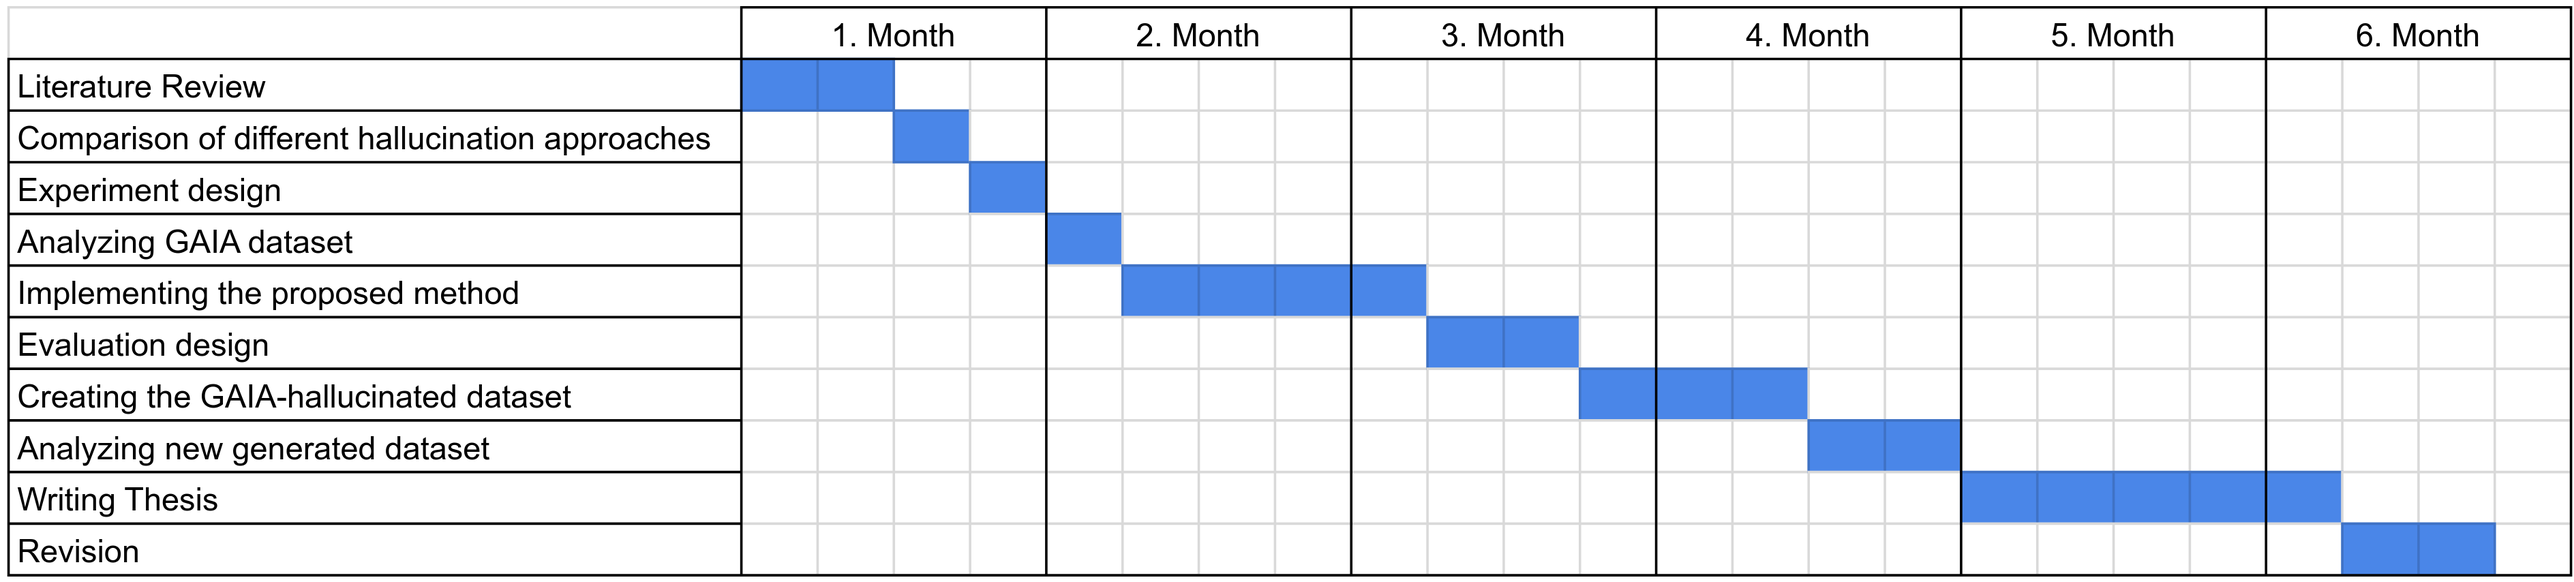
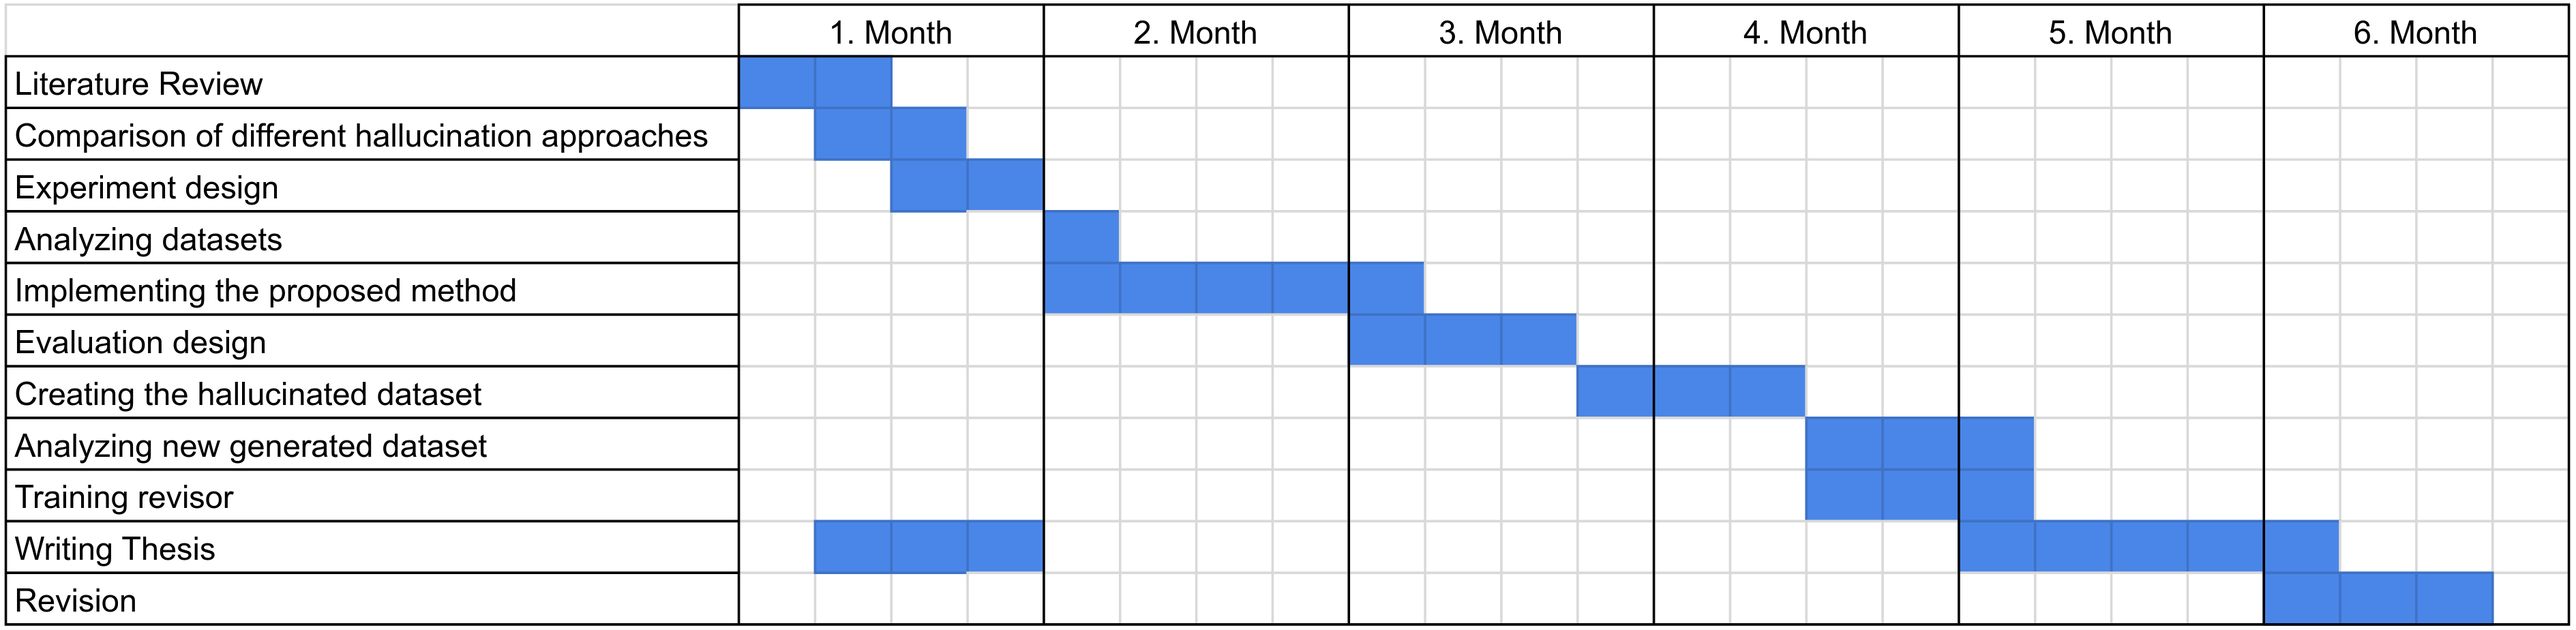
Apply some advisor feedback

Changed region(s): [[0.0, 0.0, 1.0, 1.0]]

diff --git a/proposal/main.tex b/proposal/main.tex
@@ -10,6 +10,9 @@
 \usepackage{float}
 \usepackage{graphicx}
 
+% \usepackage{etoolbox}
+% \AtBeginEnvironment{quote}{\par\singlespacing\small}
+
 \addbibresource{references.bib}
 
 \makeatletter
@@ -23,32 +26,32 @@
 
 \begin{document}
 \title{TU Berlin / Faculty IV\\
-  Remote Sensing Image Analysis Group\\
-  \vspace{1em}
-\huge Proposal for a Master Thesis}
+	Remote Sensing Image Analysis Group\\
+	\vspace{1em}
+	\huge Proposal for a Master Thesis}
 
 \maketitle
 
 \begin{table}[h!]
-  \begin{tabular}{ >{\columncolor[HTML]{FFFFFF}}r >{\columncolor[HTML]{FFFFFF}}l
-    }
-    {\color[HTML]{000000} Type of thesis/ Line of study:} &
-    {\color[HTML]{000000} Master Thesis}                           \\
-    {\color[HTML]{000000} Title of the thesis:}           &
-    {\color[HTML]{000000} On Detecting Hallucinations in Vision-Language Model } \\
-    {\color[HTML]{000000} }                     &
-    {\color[HTML]{000000} Generated Captions for Remote Sensing Imagery} \\
-    {\color[HTML]{000000} Candidate:}                     &
-    {\color[HTML]{000000} Fabian Borges, Filipe Alexandre}         \\
-    {\color[HTML]{000000} Matriculation number:}          &
-    {\color[HTML]{000000} 414221}                                  \\
-    {\color[HTML]{000000} Advisor(s):}                    &
-    {\color[HTML]{000000} Golchin, Pegah (Dr.) \& Beese, Marvin (MSc)}                    \\
-    {\color[HTML]{000000} Supervisor(s):}                 &
-    {\color[HTML]{000000} Demir, Begüm (Prof. Dr.)}                \\
-    {\color[HTML]{000000} Planned period:}                &
-    {\color[HTML]{000000} Jan. 2026 until June 2026}
-  \end{tabular}
+	\begin{tabular}{ >{\columncolor[HTML]{FFFFFF}}r >{\columncolor[HTML]{FFFFFF}}l
+		}
+		{\color[HTML]{000000} Type of thesis/ Line of study:} &
+		{\color[HTML]{000000} Master Thesis}                                         \\
+		{\color[HTML]{000000} Title of the thesis:}           &
+		{\color[HTML]{000000} On Detecting Hallucinations in Vision-Language Model } \\
+		{\color[HTML]{000000} }                               &
+		{\color[HTML]{000000} Generated Captions for Remote Sensing Imagery}         \\
+		{\color[HTML]{000000} Candidate:}                     &
+		{\color[HTML]{000000} Fabian Borges, Filipe Alexandre}                       \\
+		{\color[HTML]{000000} Matriculation number:}          &
+		{\color[HTML]{000000} 414221}                                                \\
+		{\color[HTML]{000000} Advisor(s):}                    &
+		{\color[HTML]{000000} Golchin, Pegah (Dr.) \& Beese, Marvin (MSc)}           \\
+		{\color[HTML]{000000} Supervisor(s):}                 &
+		{\color[HTML]{000000} Demir, Begüm (Prof. Dr.)}                              \\
+		{\color[HTML]{000000} Planned period:}                &
+		{\color[HTML]{000000} Jan. 2026 until June 2026}
+	\end{tabular}
 \end{table}
 
 \section{Introduction / Scientific Background / Related Work}
@@ -83,49 +86,75 @@ This thesis will explore different hallucination detection and revision methods 
 
 % Intro
 
-This thesis will consist of two phases. The first phase will be an exploration of two training-free hallucination detection methods: Semantic Entropy \cite{farquharDetectingHallucinationsLarge2024} and Visual Contrastive Decoding \cite{lengMitigatingObjectHallucinations2024}. In this phase, the performance of these methods will be evaluated on different Remote Sensing datasets with VLM-generated captions. As both methods rely on VLMs, different models will be tested to see how model choice affects detection performance. Detected hallucinations will be collected and revised in order to create a dataset of real hallucinations in Remote Sensing image captions. In the second phase, the created dataset will be used to train a hallucination reviser, following the method proposed by Zhou et al.\ \cite{zhouAnalyzingMitigatingObject2024}.
+% TODO should I write again why we are correcting VLM generated captions??
+
+This thesis will consist of two phases. The first phase will be an exploration of two training-free hallucination detection methods: Semantic Entropy \cite{farquharDetectingHallucinationsLarge2024} and Visual Contrastive Decoding \cite{lengMitigatingObjectHallucinations2024}. In this phase, the performance of these methods will be evaluated on Remote Sensing datasets with VLM-generated captions. As both methods rely on VLMs, different models will be tested to see how model choice affects detection performance. Detected hallucinations will be collected and revised in order to create a dataset of detected VLM hallucinations in Remote Sensing image captions. In the second phase, the created dataset will be used to train a hallucination reviser similarly to LURE \cite{zhouAnalyzingMitigatingObject2024}.
+
+% TODO add figure illustrating both phases
 
 \subsection{Hallucination Detection Methods}
-
-\subsubsection{Training-Free Methods}
-
-Semantic Entropy and Visual Contrastive Decoding are training-free methods to detect hallucinations. Both estimate uncertainty for singular words or ideas that might be present in a generated caption. Descriptions of complex Remote Sensing images often contain multiple facts. To analyze these, an LLM will decompose each caption into individual facts and generate corresponding questions, as was done in \cite{farquharDetectingHallucinationsLarge2024}. These questions will serve as the textual input for both detection methods.
-
-\paragraph{Semantic Entropy}
-Semantic entropy as introduced in \cite{farquharDetectingHallucinationsLarge2024}, is used as an entropy-based uncertainty estimator for detecting hallucinations in language models. One of the motivations for this method is that a single idea can be expressed in many ways. To address this, entropy is calculated over meaning rather than specific tokens. This method was chosen as it requires no domain or task specific data and was shown to generalize well across different tasks, thus requires no assumptions about Remote Sensing hallucinations \cite{farquharDetectingHallucinationsLarge2024}. The general flow of this method is as follows: For each question generated from one factual claim, prompt the VLM to generate multiple answers and compute the semantic entropy of the answers. The average semantic entropy across all questions is used as the hallucination score for the original factual claim. This efficacy on Remote Sensing images remains unexplored.
-
-\paragraph{Visual Contrastive Decoding}
-Similarly to the semantic entropy method, Visual Contrastive Decoding (VCD) is a training-free method and requires little assumptions about Remote Sensing hallucinations \cite{lengMitigatingObjectHallucinations2024}. By comparing the output distributions of original and distorted images, VCD reveals internal biases present in VLMs. VCD has proven versatile, mitigating hallucinations across different VLM families. This versatility may be important for Remote Sensing, which uses different VLMs for varied image types (such as multi-spectral) \cite{marimoVisibleMultispectralVisionLanguage2026}. VCD's efficacy in this domain remains untested. The original VCD method utilizes Gaussian noise as the distortion technique. However, different types of distortions will be explored to determine which is most effective for Remote Sensing images.
-
-\subsubsection{Trained Method}
-A hallucination reviser will be trained similarly to the method proposed by Zhou et al.\ \cite{zhouAnalyzingMitigatingObject2024}. In the original method, a training dataset is created by artificially generating hallucinatory captions. Instead of this, the dataset created in the first phase of the thesis, containing detected hallucinations, will be used. An LLM will then be fine-tuned on this dataset to correct hallucinations in captions. This will serve to evaluate the utility of the newly created dataset and allow for a comparison between the training-free and trained hallucination detection methods.
-
-\subsubsection{LLM as a judge}
-To increase confidence of any hallucination predictions, an LLM-as-a-judge or LLMs-as-a-jury strategy will be employed. Different options will be explored. For example, to confirm a likely hallucination, a VLM is asked a binary question for each suspected object (e.g., ”Is object [X] present in the image?”), similar to the POPE evaluation method \cite{liEvaluatingObjectHallucination2023}. This method could be further explored by utilizing multiple VLMs and utilizing a voting strategy. Using multiple VLMs would increase complexity, it will be explored if this significantly improves hallucination detection.
-
-\subsection{VLMs}
-%TODO add citations
-Both training-free methods rely on VLMs to generate answers to questions derived from factual claims in captions. While both methods show comparable performance across different model families \cite{farquharDetectingHallucinationsLarge2024}, \cite{lengMitigatingObjectHallucinations2024}, no tests were performed in the Remote Sensing domain. Different LVLMs will be tested to see how model choice affects hallucination detection performance. VCD relies on logit distributions, so only LVLMs that provide access to these are viable options. In order to explore different VLM architectures LLaVA-1.5 \cite{liuImprovedBaselinesVisual2024} and Qwen3-VL \cite{baiQwen3VLTechnicalReport2025} will be tested. LLaVA-1.5 employs Vicuna-7B as a language decoder and Qwen3-VL is built on top of Qwen3 LM. GeoChat \cite{kuckrejaGeoChatGroundedLarge2023}, a fine-tuned version of LLaVA-1.5 on Remote Sensing data, will also be evaluated to see if domain-specific fine-tuning improves detection performance.
 
 \subsection{Datasets}
 The main task throughout the thesis will be to detect and revise hallucinations in existing  VLM-generated Remote Sensing image captions. Therefore, all datasets used must contain VLM-generated captions. The first dataset to be used will be GAIA \cite{zavrasGAIAGlobalMultimodal2025}, which contains GPT-4o generated captions for a diverse set of Remote Sensing images. The images provided by GAIA come from different sources, span a wide variety of scenes and include multi-modal data (such as multispectral imagery). This variety will offer a solid foundation for exploring hallucination detection methods. Another dataset that will be explored is RSTeller, which exclusively contains aircraft imagery captured over the United States of America sourced from the National Agriculture Imagery Program. All images in RSTeller contain multiple captions generated with different Mixtral VLMs. RSTeller contains both longer descriptive captions and shorter revised versions, which could be useful for evaluating detection methods on captions with different lengths. This will also provide captions generated form a different VLM architecture than GAIA, allowing for a broader evaluation of detection methods. Other Remote Sensing datasets with rich VLM-generated captions also exists, such as fMoW-mm \cite{tangSeeingFarClearly2025}, RS5M \cite{zhangRS5MGeoRSCLIPLarge2024} and ChatEarthNet \cite{yuanChatEarthNetGlobalScaleImageText2024a}. This thesis will primarily focus on GAIA and RSTeller, but other datasets may be explored if time permits.
 
+
+\subsubsection{Uncertainty Estimation}
+
+Semantic Entropy (SE) and Visual Contrastive Decoding (VCD) are training-free methods to detect hallucinations, both methods are explained in the following paragraphs. Both estimate uncertainty for singular words or ideas that might be present in a generated caption. Descriptions of complex Remote Sensing images often contain multiple facts. To analyze these, an LLM will decompose each caption into individual facts and generate corresponding questions, as described in the original Semantic Entropy paper \cite{farquharDetectingHallucinationsLarge2024}. These questions will serve as the textual input for both detection methods. For example, below is a caption taken from the GAIA dataset and a possible factoid decomposition:
+
+\begin{quote}
+	"A plume of glacial dust extending into the Gulf of Alaska, originating from the Copper River Valley. The phenomenon is captured by the VIIRS instrument aboard the Suomi NPP satellite. The glacial flour, rich in iron, is visible as a distinct brownish streak over the ocean, highlighting the interaction between terrestrial and marine environments."
+
+	\begin{enumerate}
+		\item A plume of glacial dust extends into the Gulf of Alaska.
+
+		\item The glacial dust originates from the Copper River Valley.
+
+		\item The phenomenon was captured by the Visible Infrared Imaging Radiometer Suite (VIIRS) instrument.
+
+		\item The glacial dust is composed of glacial flour.
+
+		\item The glacial flour is rich in iron.
+
+		\item The dust is visible as a distinct brownish streak over the ocean.
+	\end{enumerate}
+\end{quote}
+
+\paragraph{Semantic Entropy}
+Semantic entropy \cite{farquharDetectingHallucinationsLarge2024}, is used as an entropy-based uncertainty estimator for detecting hallucinations in language models. One of the motivations for this method is that a single idea can be expressed in many ways. To address this, entropy is calculated over meaning rather than specific tokens. This method was chosen as it requires no domain or task specific data and was shown to generalize well across different tasks, thus requires no assumptions about Remote Sensing hallucinations \cite{farquharDetectingHallucinationsLarge2024}. The general flow of this method is as follows: For each question generated from one factual claim, prompt the VLM to generate multiple answers and compute the semantic entropy of the answers. The average semantic entropy across all questions is used as the hallucination score for the original factual claim. The paper introducing Semantic Entropy for hallucination detection only evaluated LLM-generated text outside the domain of Remote Sensing. Thus, the efficacy on VLM-generated image descriptions, including Remote Sensing imagery, remains unexplored.
+
+\paragraph{Visual Contrastive Decoding}
+Similarly to the semantic entropy method, Visual Contrastive Decoding (VCD) is a training-free method and requires no assumptions about the nature of Remote Sensing hallucinations \cite{lengMitigatingObjectHallucinations2024}. While Semantic Entropy only works with text-based captions, Visual Contrastive Decoding also works with images. By comparing the output distributions of original and distorted images, VCD reveals internal biases present in VLMs. VCD has proven versatile, mitigating hallucinations across different VLM families. This versatility may be important for Remote Sensing, which uses different VLMs for varied image types (such as multi-spectral) \cite{marimoVisibleMultispectralVisionLanguage2026}. As with  Semantic Entropy, VCD's efficacy on Remote Sensing imagery remains unexplored. The original VCD method utilizes Gaussian noise as the distortion technique. However, different types of distortions, such as different kinds of noise or masking, will be explored to determine which is most effective for Remote Sensing images.
+
+Using both aforementioned methods, a dataset containing hallucinated VLM-generated captions of Remote Sensing images will be created. This dataset could serve as a benchmark for hallucination detection in the field of Remote Sensing. Additionally, the utility as a training dataset for fine-tuning a hallucination reviser will be explored.
+
+\subsubsection{Training a Reviser}
+A hallucination reviser will be trained similarly to the method proposed by Zhou et al.\ \cite{zhouAnalyzingMitigatingObject2024}. In the original method, a training dataset is created by artificially generating hallucinatory captions. Instead of this, the dataset created in the first phase of the thesis, containing detected hallucinations, will be used. An LLM will then be fine-tuned on this dataset to correct hallucinations in captions. This will serve to evaluate the utility of the newly created dataset and allow for a comparison between the training-free and trained hallucination detection methods.
+
+\subsubsection{Effect of VLM choice}
+%TODO add citations
+Both training-free methods rely on VLMs to generate answers to questions derived from factual claims in captions. While both methods show comparable performance across different model families \cite{farquharDetectingHallucinationsLarge2024}, \cite{lengMitigatingObjectHallucinations2024}, no tests were performed in the Remote Sensing domain. Different LVLMs will be tested to see how model choice affects hallucination detection performance. VCD relies on logit distributions, so only LVLMs that provide access to these are viable options. In order to explore different VLM architectures LLaVA-1.5 \cite{liuImprovedBaselinesVisual2024} and Qwen3-VL \cite{baiQwen3VLTechnicalReport2025} will be tested. LLaVA-1.5 employs Vicuna-7B as a language decoder and Qwen3-VL is built on top of Qwen3 LM. GeoChat \cite{kuckrejaGeoChatGroundedLarge2023}, a fine-tuned version of LLaVA-1.5 on Remote Sensing data, will also be evaluated to see if domain-specific fine-tuning improves detection performance.
+
+\subsubsection{Evaluating Hallucination Predictions}
+To increase confidence of any hallucination predictions, an LLM-as-a-judge or LLMs-as-a-jury strategy will be employed. Different options will be explored. For example, to confirm a likely hallucination, a VLM is asked a binary question for each suspected object (e.g., ”Is object [X] present in the image?”), similar to the POPE evaluation method \cite{liEvaluatingObjectHallucination2023}. Using multiple VLMs and a voting strategy might improve hallucination detection but also adds complexity, this will be explored throughout the thesis.
+
 \subsection{Evaluation}
 One way to evaluate the utility of the revised captions is to fine-tune a model with the original and revised captions separately and compare their captioning performance. If the revised captions lead to better performance, it would indicate that the hallucination removal process was effective. Common evaluation metrics for image captioning, such as BLEU, METEOR, or CIDEr, and hallucination detection metrics such as POPE can also be used directly on the revised captions against ground truth captions to assess improvements in quality.
 
-%-----------------
+%----------------
 
 \section{Time Frame}
 
-The thesis will be carried out over a period of six months. The following Gantt chart (Figure \ref{fig:schedule}) outlines the estimated schedule for the various phases of the thesis:
+The thesis will be carried out over a period of six months. The following Gantt chart (Figure \ref{fig:schedule}) outlines the estimated schedule for the thesis:
 
 \begin{figure}[H]
-  \includegraphics[width=\linewidth]{schedule.png}
-  \caption{Gantt chart showing the planned schedule for the master thesis.}
-  \label{fig:schedule}
+	\includegraphics[width=\linewidth]{schedule.png}
+	\caption{Gantt chart showing the planned schedule for the master thesis.}
+	\label{fig:schedule}
 \end{figure}
 
 % If interesting and enlightening (e.g. cooperation with a company or similar) can be given here a brief overview of the schedule. (can be omitted in case of only 3 or 4 month, does not make so much sense in these short frames).
 
+\newpage
 \printbibliography
 \end{document}
